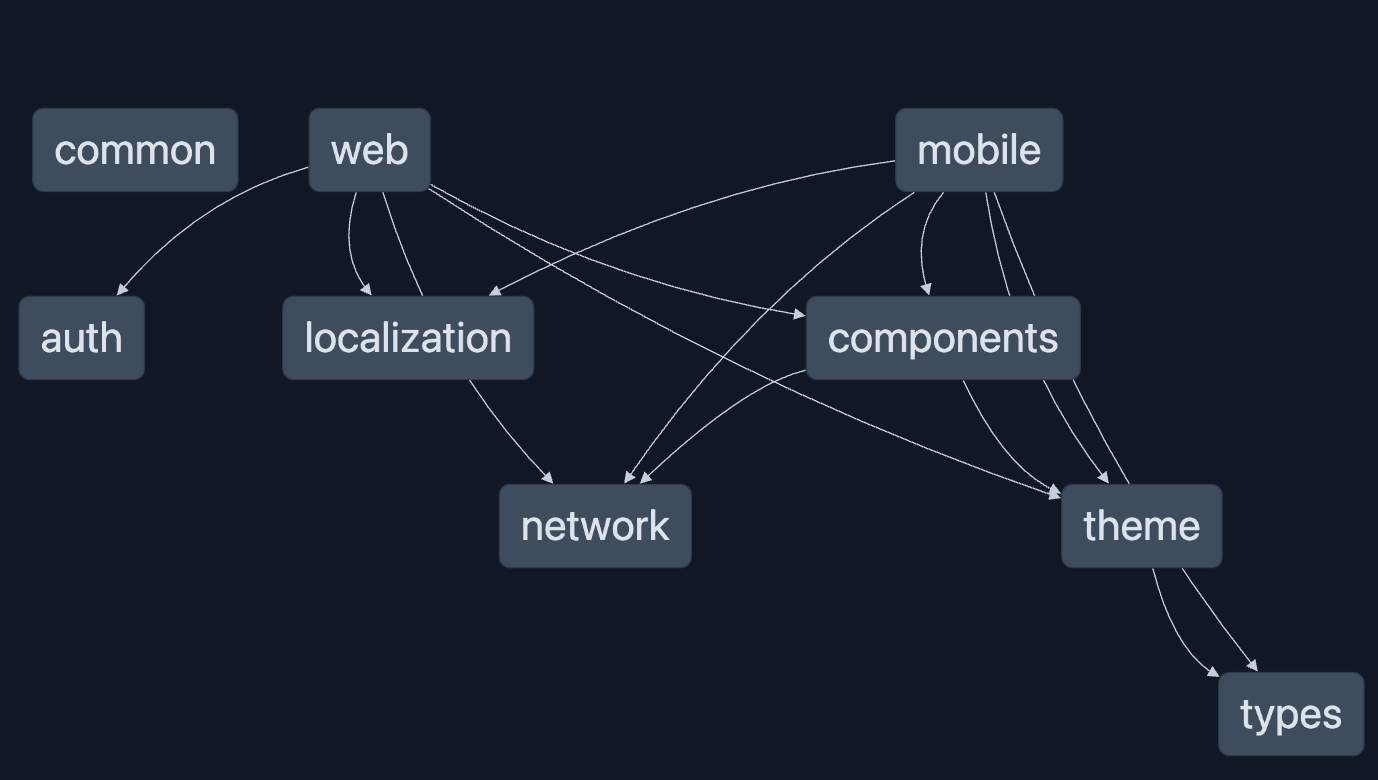
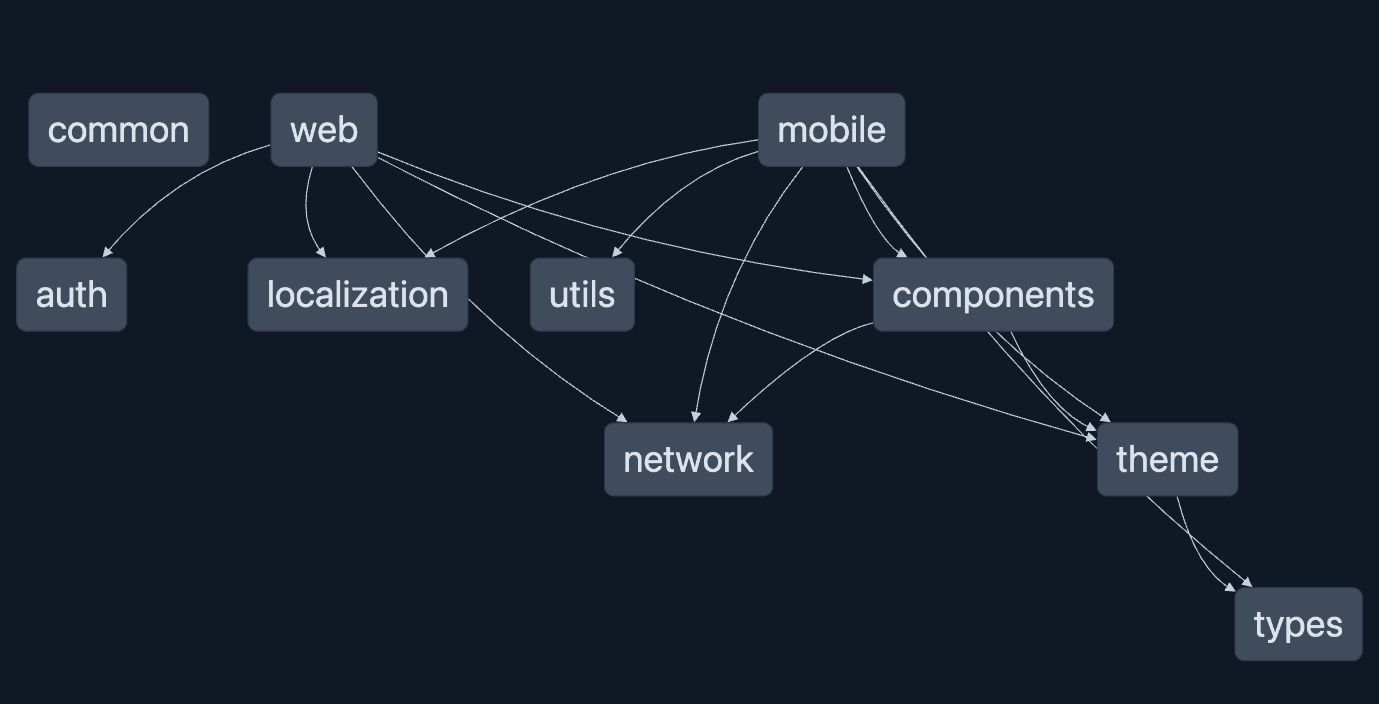
update readme

diff --git a/README.md b/README.md
@@ -1,6 +1,15 @@
 # AssmtApp
 
-Monorepo with two apps - web(React) & mobile(React Native) with shared libs/modules with maximum re-usabilty within and across the apps in the project.
+Monorepo with - web(React) & mobile(React Native) apps with shared libs/modules for maximum re-usabilty within and across the apps in the project.
+
+### Highlights
+
+- Credentials are encrypted and stored/retrieved securely on mobile device
+- Localization supporting 4 languages
+- Country support UAE and India with country specific validation rules and themes on post login dashboard.
+- Features are modular with no cross module dependency
+- Component library for web & mobile as a lib in the project so that more apps can be added to the project and libraries can be utilized
+- Country specific feature config - changes expected to happen in different countries such as validation rules and microservice are moved to a country specific config, so that same feature can work for multiple countries with minimal change in config. 
 
 ## Project graph
 
@@ -33,6 +42,7 @@ assmt-app
   - network
   - theme 
   - types
+  - utils // Encryption and other  re-usable utils
 ```
 
 ## Pre-requisites
